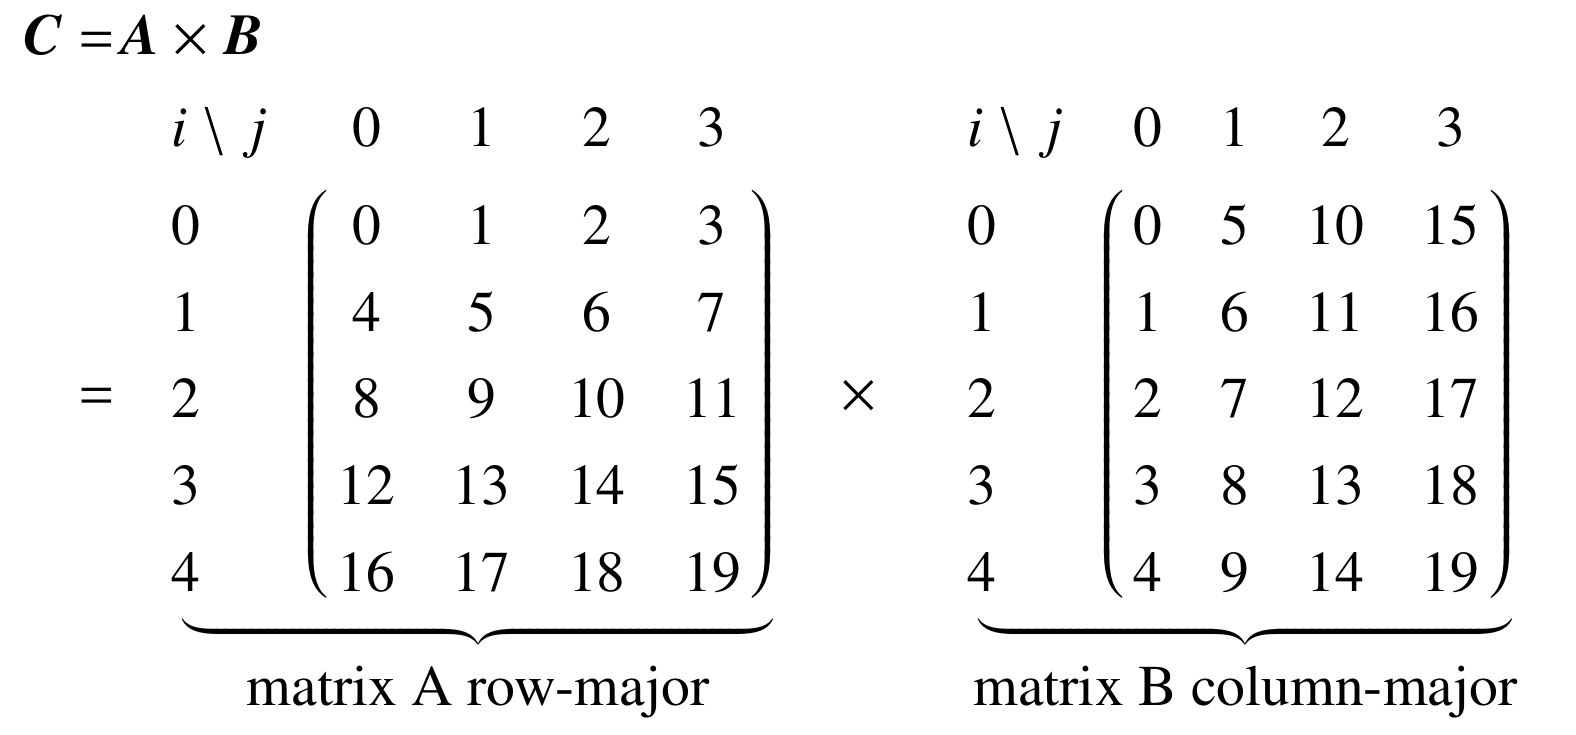
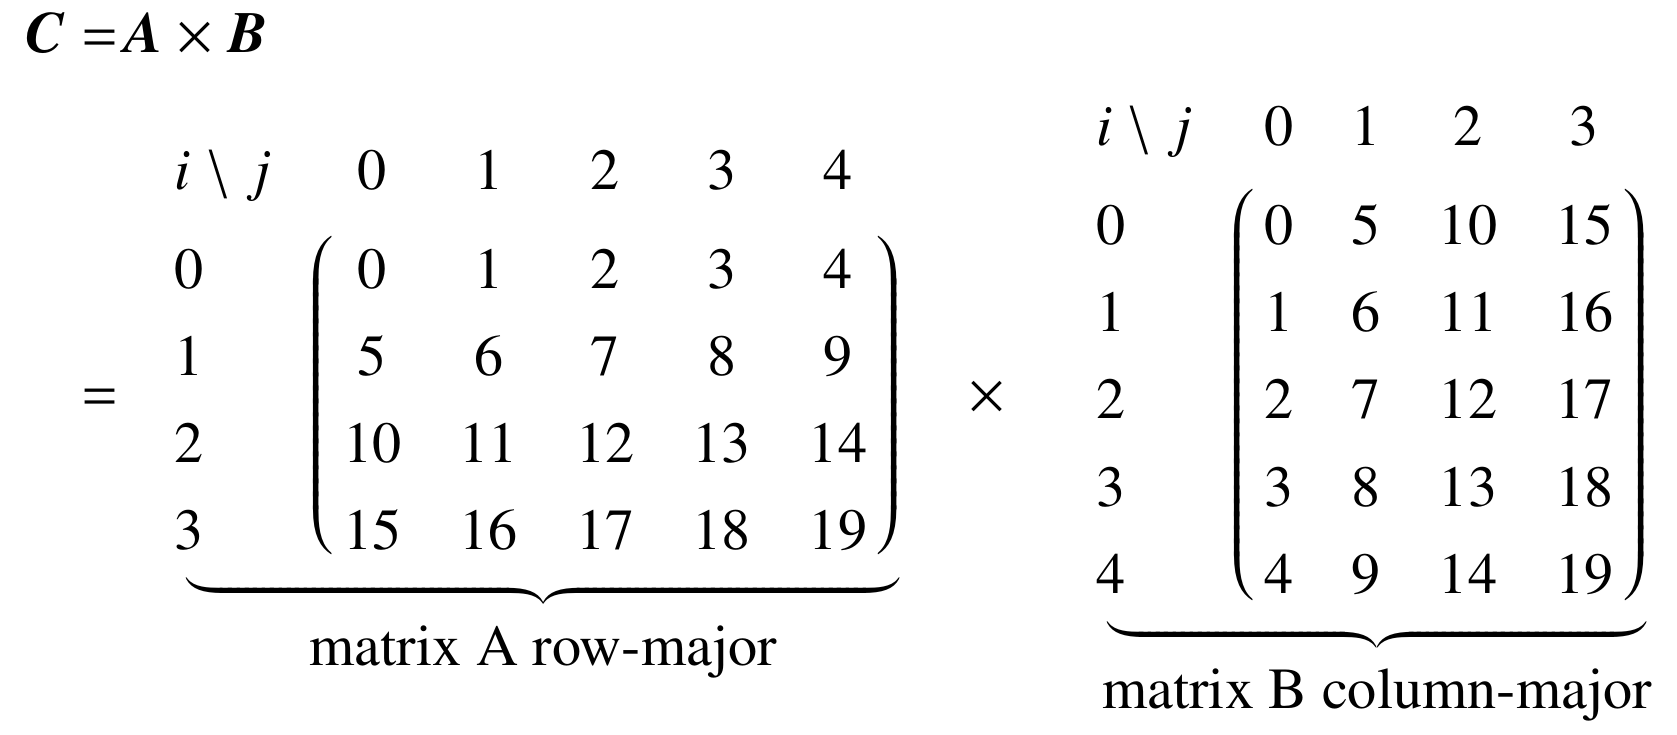
updated image

diff --git a/img/matrix.tex b/img/matrix.tex
@@ -54,12 +54,11 @@
 \boldsymbol{C}= &\boldsymbol{A} \times  \boldsymbol{B} \\
 = & \quad\underbrace{\bordermatrix{
 		i\ \text{\textbackslash} \ j
-		& 0 &  1 & 2 & 3      \cr
-		0 & 0  & 1  & 2  & 3  \cr
-		1 & 4  & 5  & 6  & 7  \cr
-		2 & 8  & 9  & 10 & 11 \cr
-		3 & 12 & 13 & 14 & 15 \cr
-		4 & 16 & 17 & 18 & 19 \cr
+		& 0 &  1 &  2 &  3 & 4    \cr
+		  0 &  0 &  1 &  2 & 3  & 4  \cr
+		  1 &  5 &  6 &  7 & 8  & 9  \cr
+		  2 & 10 & 11 & 12 & 13 & 14 \cr
+		  3 & 15 & 16 & 17 & 18 & 19 \cr
 }}_{\textstyle\begin{array}{c}\text{matrix A row-major}
 	\end{array}}
 \quad \times\quad
